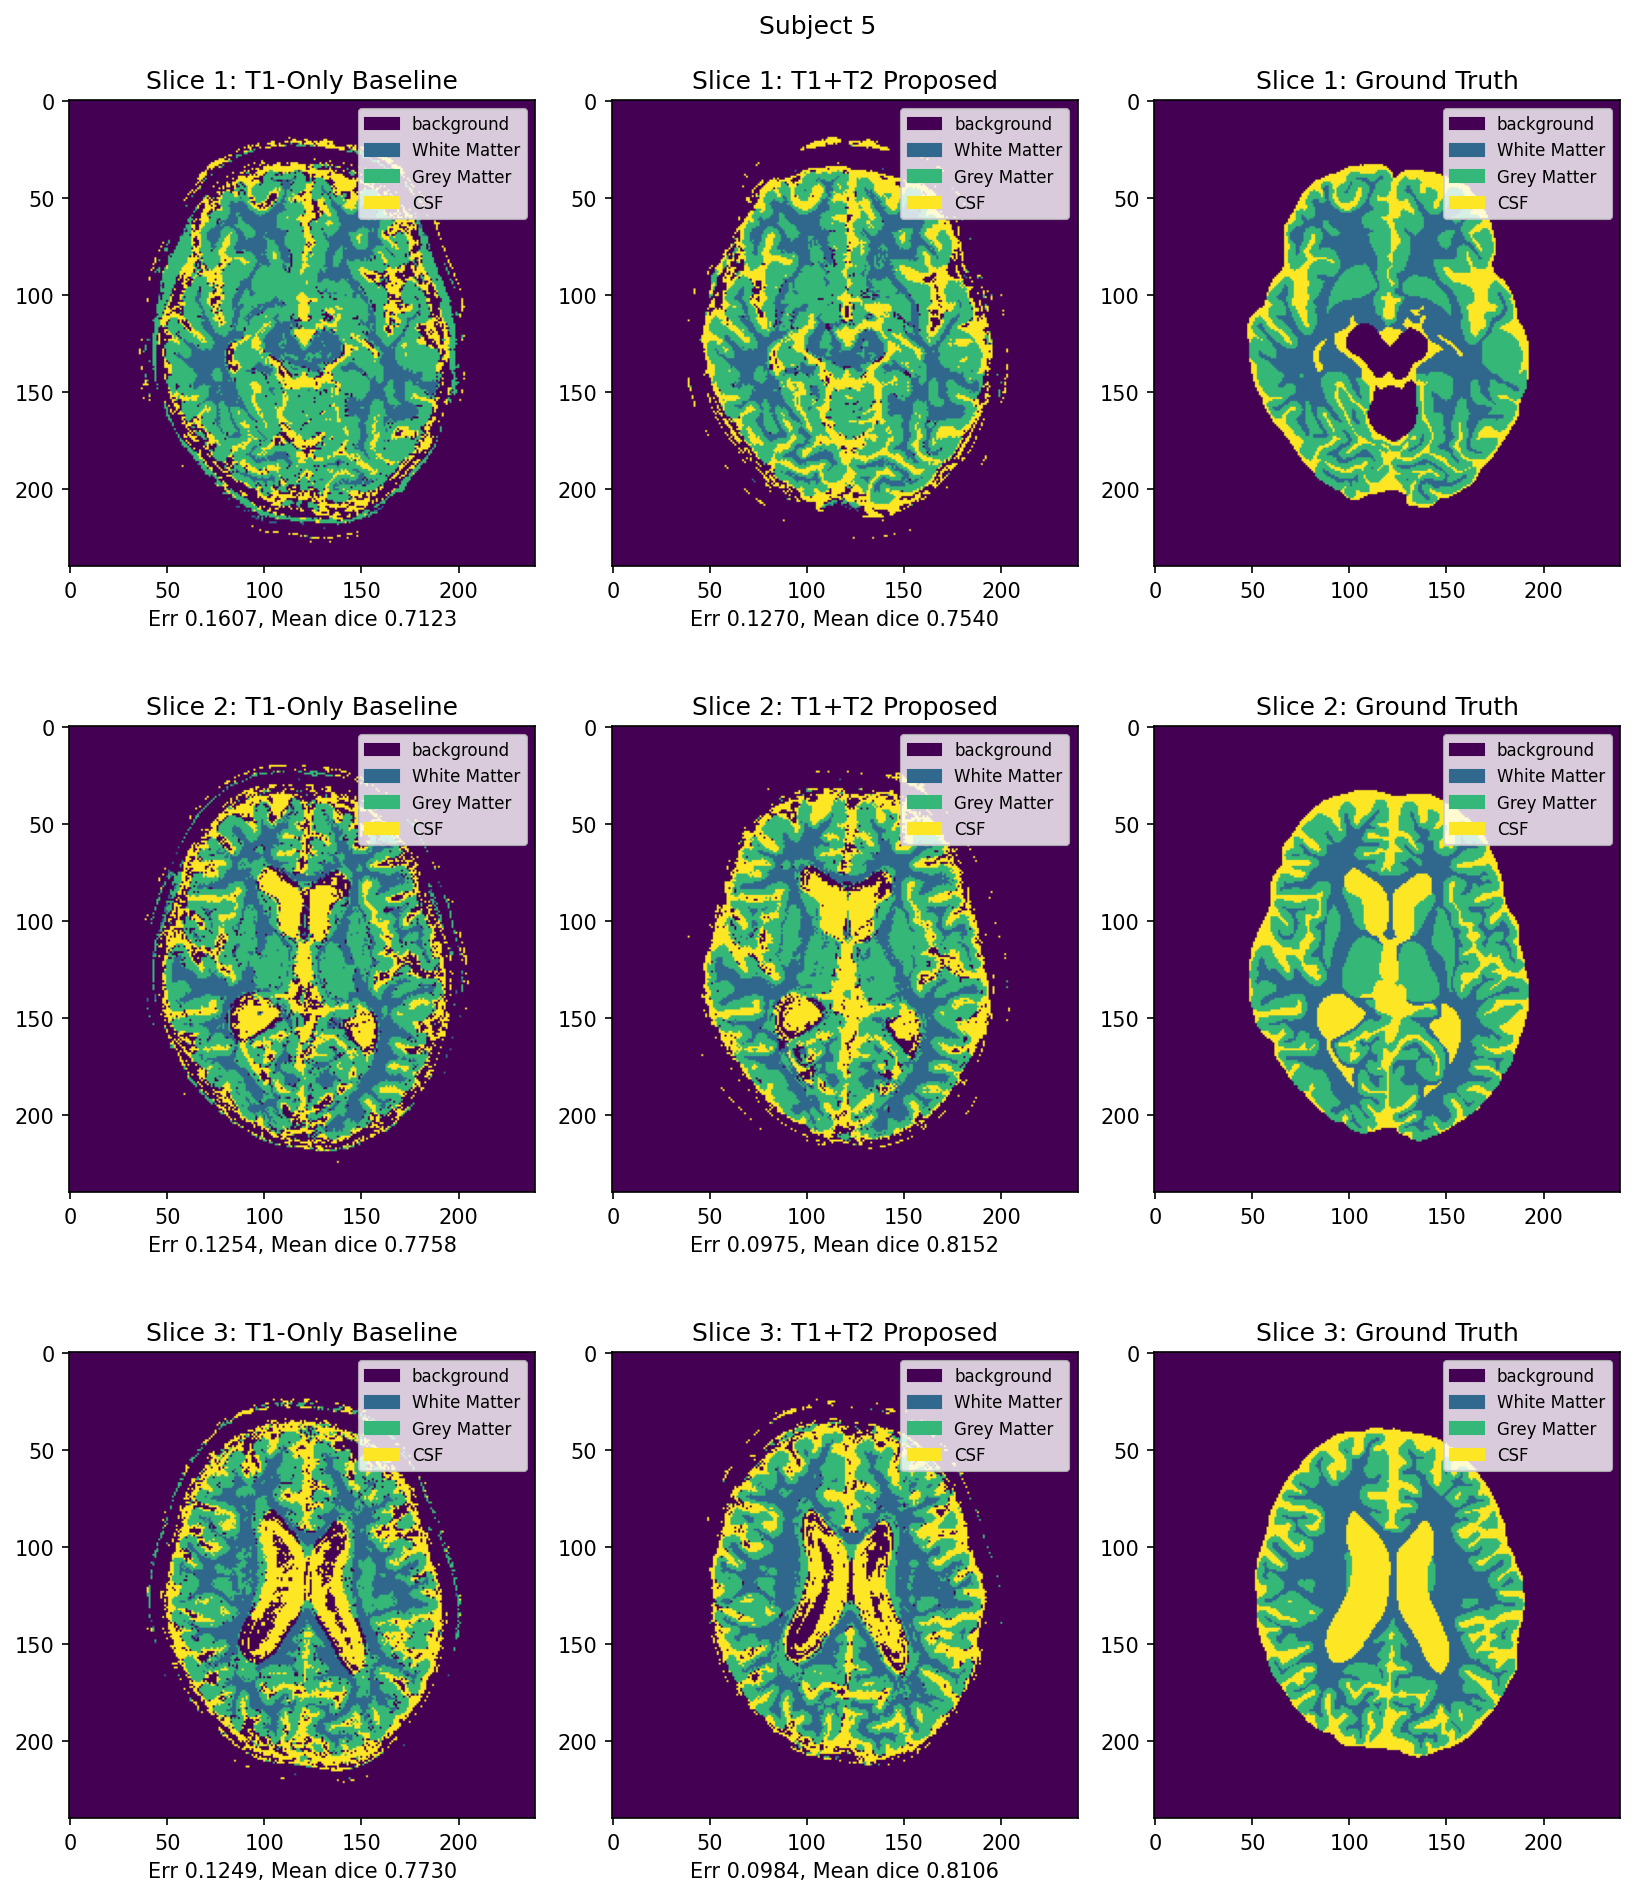
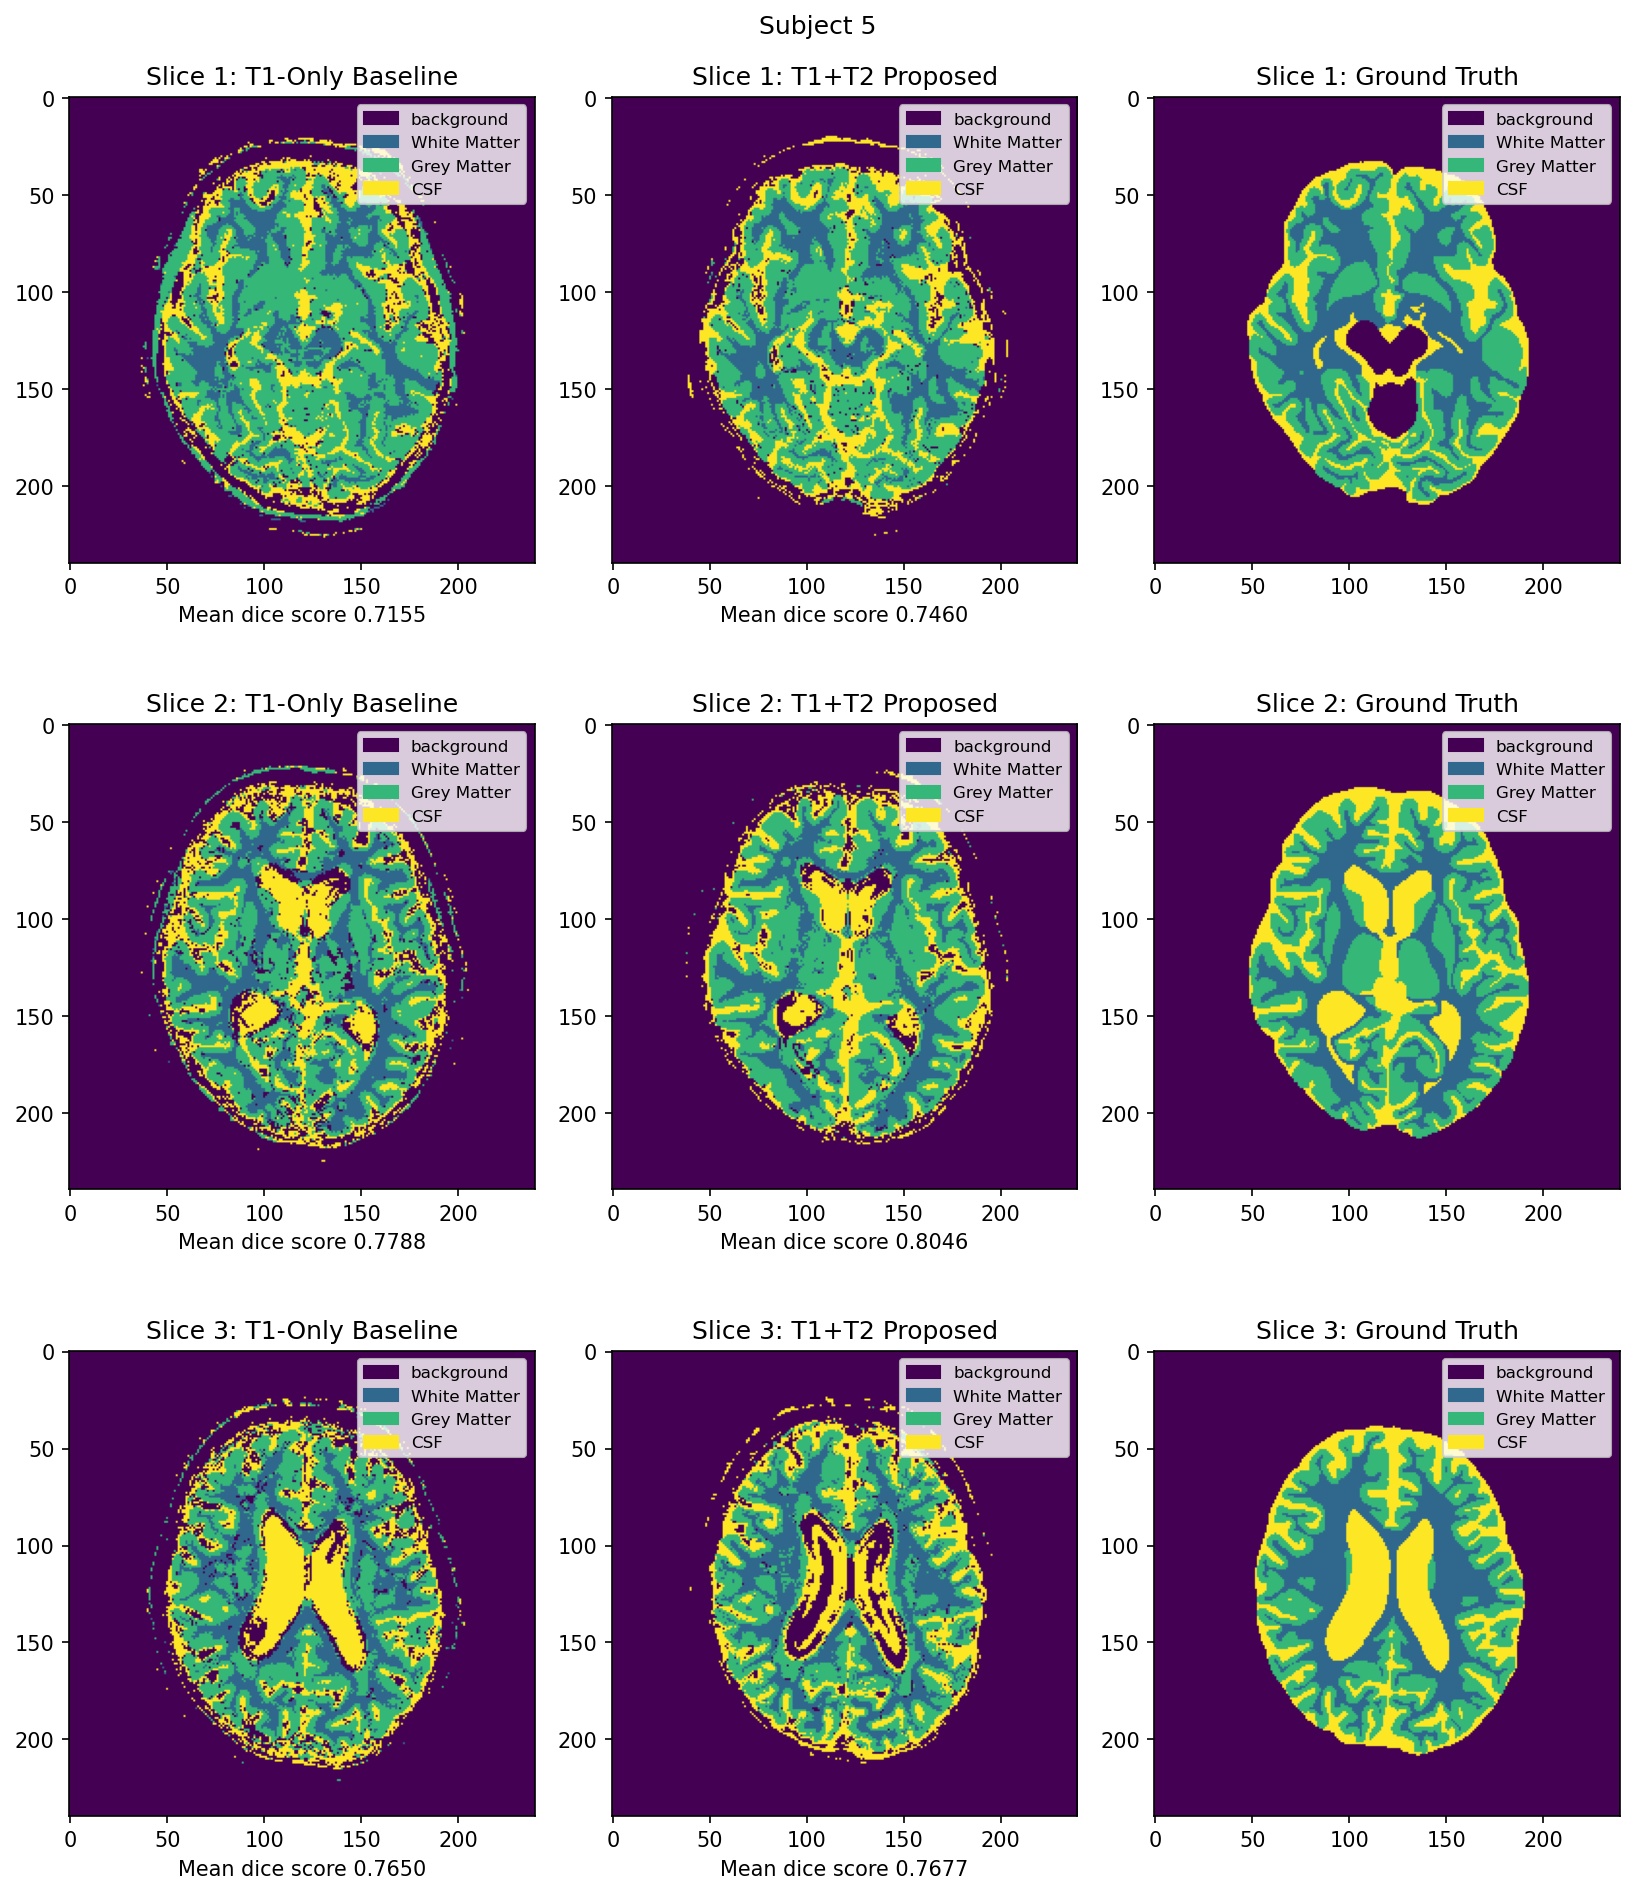
Titels conf matrix verbeterd

diff --git a/Segmentation/code/segmentation_project.py b/Segmentation/code/segmentation_project.py
@@ -117,7 +117,7 @@ def segmentation_demo():
             dice_t1 = util.dice_multiclass(test_labels, predicted_labels_t1)
             conf_matrix_t1 = util.confusion_matrix(test_labels, predicted_labels_t1)
             average_confusion_matrix_t1 += conf_matrix_t1
-            print(f"Confusion Matrix for T1-only:\n{conf_matrix_t1}")
+            print(f"Confusion Matrix for subject {sub} slice {slice} (T1-only):\n{conf_matrix_t1}")
 
             #----------------- T1 + T2 ------------------------------------------
             # Make prediction clusters with both T1 and T2 MRI scan features
@@ -128,7 +128,7 @@ def segmentation_demo():
             dice_t1t2 = util.dice_multiclass(test_labels, predicted_labels_t1t2)
             conf_matrix_t1t2 = util.confusion_matrix(test_labels, predicted_labels_t1t2)
             average_confusion_matrix_t1t2 += conf_matrix_t1t2
-            print(f"Confusion Matrix for T1+T2:\n{conf_matrix_t1t2}")
+            print(f"Confusion Matrix for subject {sub} slice {slice} (T1+T2):\n{conf_matrix_t1t2}")
 
             # -------------- Visualization --------------------------------
             # Plot resulting predictions and validations per slice
@@ -137,14 +137,14 @@ def segmentation_demo():
             ax1.imshow(predicted_labels_t1.reshape(im_size[0], im_size[1]), 'viridis')
             ax1.set_title(f'Slice {slice}: T1-Only Baseline')
             ax1.legend(handles=patches, loc='upper right', fontsize=8)
-            ax1.set_xlabel(f'Mean dice {dice_t1:.4f}')
+            ax1.set_xlabel(f'Mean dice score {dice_t1:.4f}')
 
             # T1 + T2 features
             ax2 = fig.add_subplot(3,3,(2+3*j))
             ax2.imshow(predicted_labels_t1t2.reshape(im_size[0], im_size[1]), 'viridis')
             ax2.set_title(f'Slice {slice}: T1+T2 Proposed')
             ax2.legend(handles=patches, loc='upper right', fontsize=8)
-            ax2.set_xlabel(f'Mean dice {dice_t1t2:.4f}')
+            ax2.set_xlabel(f'Mean dice score {dice_t1t2:.4f}')
 
             # Ground Truth
             ax3 = fig.add_subplot(3,3,(3+3*j))
